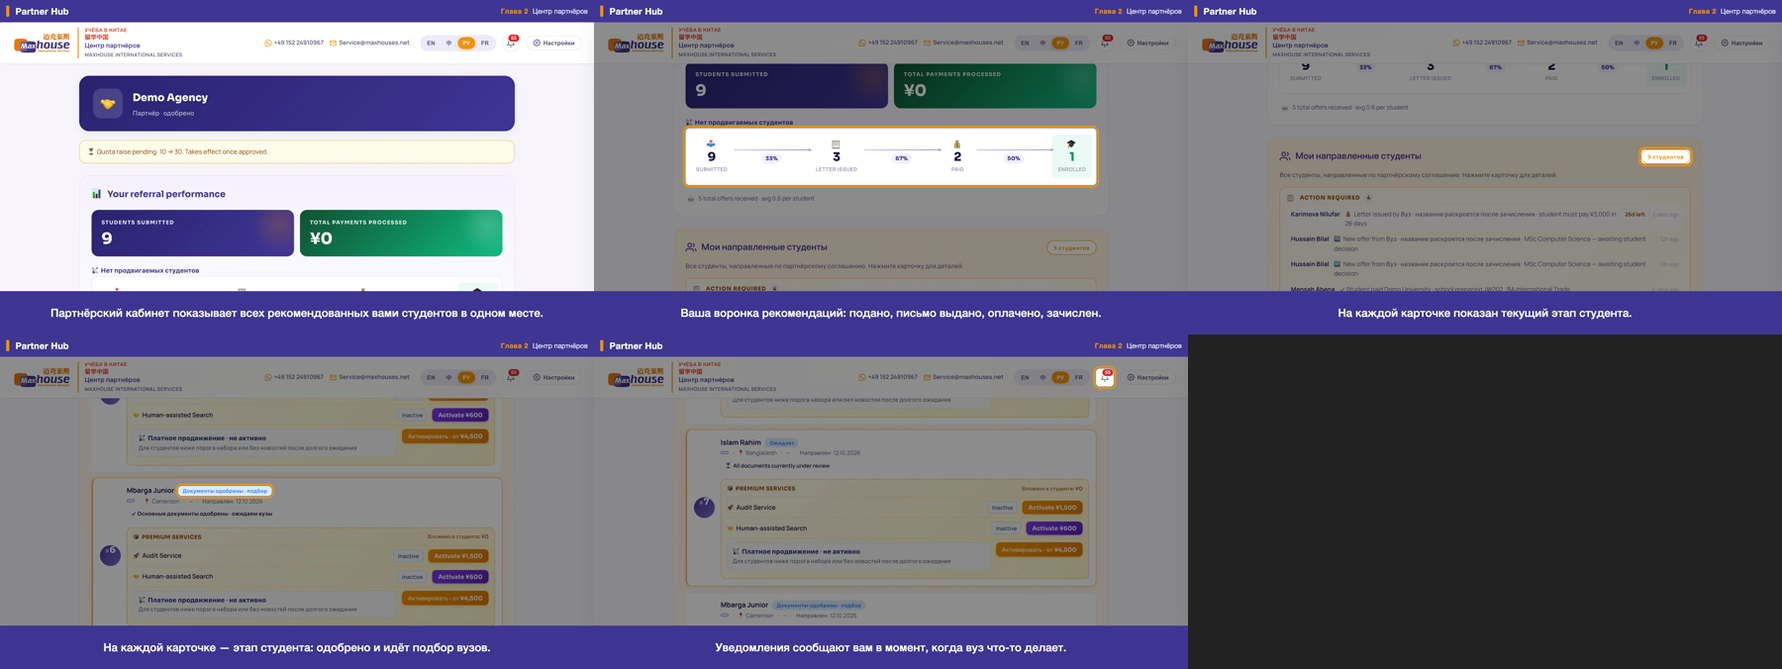
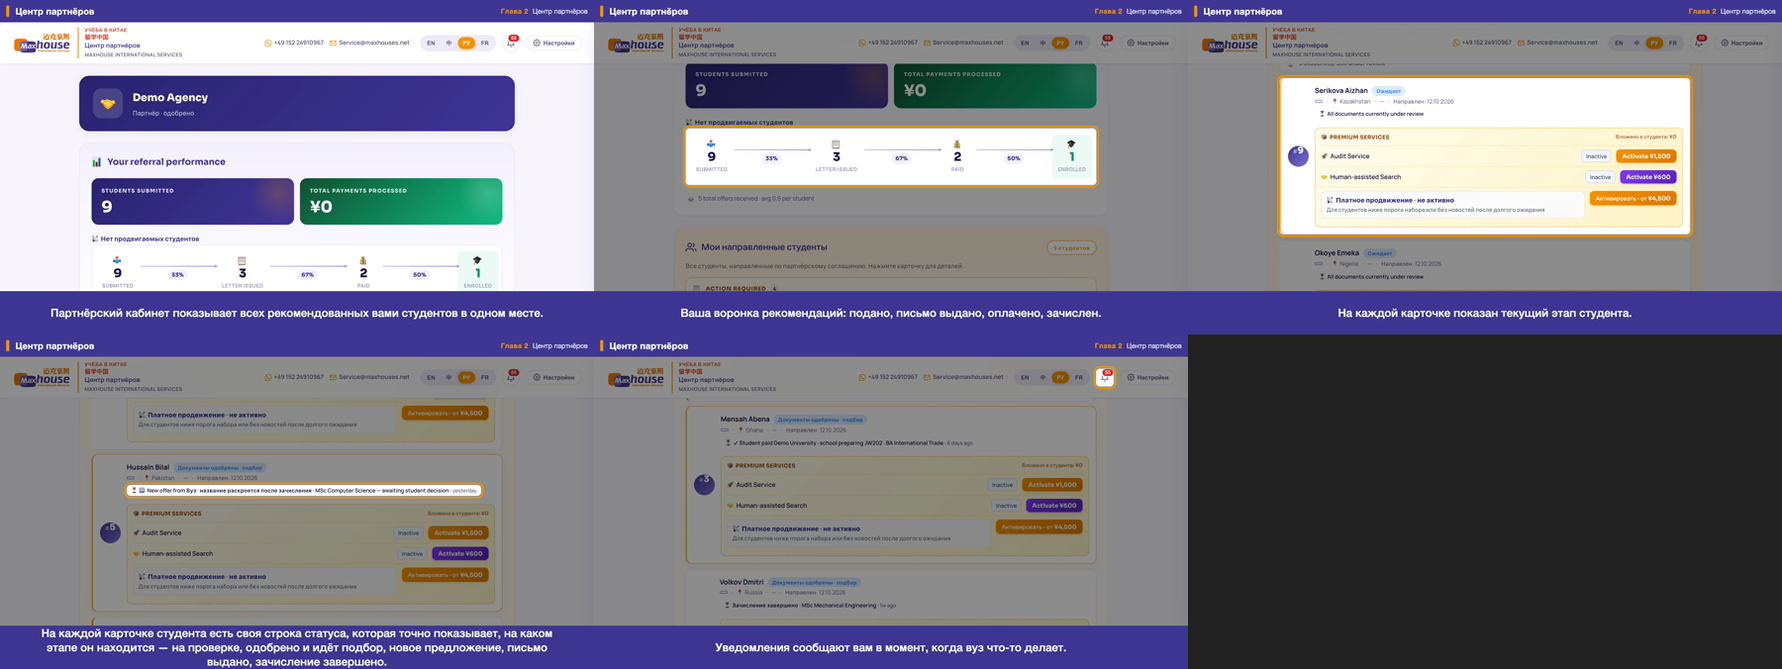
JOB-GP1 第三轮返工trip38: ch2 §三.1 重做 — 2-3 框首张学生卡整卡 + 2-4 多段框 5 张不同真实阶段状态行 + §三.7 去提额横幅 + §三.9 俄法章节条标签。四语横竖 v185 重录, 开工+收工 verify 17/17 PASS。联络表: ch2 contact + 2-4 segments 四语横竖。REVIEW-shots 追加第三轮节、旧 2-3/2-4 行标取代。GP-1 第三轮未收官, 下趟 ch1。

diff --git a/JOB-GP1-03-PROGRESS.md b/JOB-GP1-03-PROGRESS.md
@@ -1,4 +1,17 @@
-最后一趟：2026-10-13 第37趟 返工：**做了＝四语过 review1 §六十一项重审 → GP-1 返工收官**。全部工作台章(ch1/2/3/5/7/8/9/10 v185 定版)+ ch6 §二去揭晓(trip21)+ ch4 原版 + 开场快剪 OP-2..5 + 四语全片/速览(trip36 重拼)齐备。本趟纯复审+文书、**零 DB 写入**，开工+收工 verify **17/17 PASS 0 FAIL**。十一项四语各自全过：写 REVIEW-en-self.md(九项升十一项 v2)+ 新建 REVIEW-{zh,ru,fr}-self.md；四张 shots 逐镜对账表 **0 条「否」**。当场新验：①禁用词＋真名校名＋beta/test 对 captions 全 **57 镜×4 语** 扫描 **0 命中**；②8 个片尾成片 ED-{land,port}-{en,zh,ru,fr} 抽实帧 jsQR **真帧解码**全＝`…/partner-portal/?src=video-<语言>` 逐字对；③ffprobe 实测四语 full/trailer/OP/ED 时长与 trip36 记录逐项一致、segments 全语齐。四语新时长：全片 land/port EN426.6/424.7·ZH441.1/440.3·RU449.9/449.6·FR440.3/439.8s；速览 EN164.3/162.8·ZH168.4/167.6·RU172.3/172.2·FR165.8/165.5s。十一项四语全过→照 RULING-20261012c-rework 第4条重写 `~/mh-jobs/SUMMARY-GP1.md`(首行 **PUSH_OK=yes**，大白话：返工改了什么/review1 每条怎么处理/6 条产品问题留业主/四语新时长/v1 与 v2 区别/GP-2 建议包)。主仓库点名提交 JOB-GP1(4 self-review+DECISIONS D-37-1)不推；4 self-review+SUMMARY+决定账+PROGRESS 推 mh-jobs。**GP-1 四语横竖返工全部收官，循环自停。不开始 GP-2：不传 R2、不动 Cloudflare、不推主仓库。**
+最后一趟：2026-10-13 第38趟 第三轮返工（RULING-20261013b-video-only）：**做了＝第〇节放回代码核验（partner-portal 与线上一致·无 v186·diff 空）+ ch2 §三.1 重做**。2-3 高亮改框第一张学生卡整卡（原框计数药丸）；2-4 改为依次框 5 张不同真实阶段的卡状态行（nth1/4/5/6/8＝审核中/已通过匹配/新offer/已发通知书/录取完成·rec.mjs 新增 hlseq 多段高亮）+四语字幕重写重配音；§三.7 录前 st-ch8-quota-off/录后 restore 去掉工作台顶部提额横幅；§三.9 俄法章节条左标签改 Центр партнёров/Espace partenaires。四语横竖 8 片 v185 重录+重拼，开工+收工 verify 均 **17/17 PASS 0 FAIL**。亲眼逐帧复验 EN seg1-5/2-1/2-3+ZH seg3+RU/FR seg5：环框正确、无提额横幅、¥0 无负数、各 ¥ 正数、无 beta/test、双盲守住、no @gmail。第二版成片留底 _v2/、dist 覆盖第三轮版。**下趟＝ch1（§三.10 十章全部重录：四语横竖 v185 定版重录+§三.7 去横幅+§三.9 俄法章节条；ch1 字幕无缺陷纯重录）**。GP-1 第三轮返工未收官。
+> 【存档·第二版收官单结论，已被第三轮返工重开】最后一趟：2026-10-13 第37趟 返工：**做了＝四语过 review1 §六十一项重审 → GP-1 返工收官**。全部工作台章(ch1/2/3/5/7/8/9/10 v185 定版)+ ch6 §二去揭晓(trip21)+ ch4 原版 + 开场快剪 OP-2..5 + 四语全片/速览(trip36 重拼)齐备。本趟纯复审+文书、**零 DB 写入**，开工+收工 verify **17/17 PASS 0 FAIL**。十一项四语各自全过：写 REVIEW-en-self.md(九项升十一项 v2)+ 新建 REVIEW-{zh,ru,fr}-self.md；四张 shots 逐镜对账表 **0 条「否」**。当场新验：①禁用词＋真名校名＋beta/test 对 captions 全 **57 镜×4 语** 扫描 **0 命中**；②8 个片尾成片 ED-{land,port}-{en,zh,ru,fr} 抽实帧 jsQR **真帧解码**全＝`…/partner-portal/?src=video-<语言>` 逐字对；③ffprobe 实测四语 full/trailer/OP/ED 时长与 trip36 记录逐项一致、segments 全语齐。四语新时长：全片 land/port EN426.6/424.7·ZH441.1/440.3·RU449.9/449.6·FR440.3/439.8s；速览 EN164.3/162.8·ZH168.4/167.6·RU172.3/172.2·FR165.8/165.5s。十一项四语全过→照 RULING-20261012c-rework 第4条重写 `~/mh-jobs/SUMMARY-GP1.md`(首行 **PUSH_OK=yes**，大白话：返工改了什么/review1 每条怎么处理/6 条产品问题留业主/四语新时长/v1 与 v2 区别/GP-2 建议包)。主仓库点名提交 JOB-GP1(4 self-review+DECISIONS D-37-1)不推；4 self-review+SUMMARY+决定账+PROGRESS 推 mh-jobs。**GP-1 四语横竖返工全部收官，循环自停。不开始 GP-2：不传 R2、不动 Cloudflare、不推主仓库。**
+
+# 第 38 趟（2026-10-13 Mac mini 无人值守）· 第三轮返工开工 + ch2 §三.1 重做（RULING-20261013b-video-only）
+- **背景**：第二版(trip37)曾判收官；业主 2026-10-13 19:04 改判「不改中介端任何代码、只完成操作视频并上线」→ RULING-20261013b-video-only 开第三轮返工（RULING-20261013a-review2 作废、v186 取消）。SUMMARY-GP1-v2-*.md 系业主改名的第二版收官单，不动。
+- **第〇节（放回代码）**：partner-portal 无 v186、`git diff origin/main --stat -- partner-portal` 空、无未跟踪文件 → 第二轮从未动 v186，无需还原。本轮不改五端口任何代码。（以后每趟复核此两项。）
+- **本趟＝ch2（§五 顺序先 ch2）**：按 §三.1 重做 2-3/2-4 + §三.7 去提额横幅 + §三.9 俄法章节条左标签。
+  - **2-3**：高亮由计数药丸改框第一张学生卡整卡（Serikova Aizhan），字幕不改。
+  - **2-4**：依次框 5 张不同真实阶段的卡状态行 `.partner-student-issue`（nth 1/4/5/6/8＝审核中/已通过匹配/新offer Bilal/已发通知书 Karimova/录取完成 Volkov；rec.mjs 新增 hlseq 多段高亮，每段 hold1.3s、环不熄仅移动，逐段占其时段~76%≥70%）。字幕四语重写（不加引号避 §四.4）+重配音。实证探针 _probe-ch2-issue/_probe-ch2-nth；8 片 timeline seq 全 YYYYY。
+  - **§三.7**：录前 st-ch8-quota-off（quota_requests 单列 pending→approved）、录后 st-ch8-quota-restore。2-1 整屏已无「Quota raise pending」横幅。
+  - **§三.9**：gp1-overlays.mjs 俄 hub→Центр партнёров、法 hub→Espace partenaires（＝v185 页头名，亲帧实证），只重烧章节条、重拼 ru/fr ch2。
+- **验收**：开工+收工 verify 均 **17/17 PASS 0 FAIL**（scoped 置态/复位）。四语横竖 8 片 res OK+audio yes，录制全 no @gmail。亲眼逐帧：EN seg1-5（环框正确状态行·¥3,000 正数）+2-1（无横幅·¥0 无负数）+2-3（整框首卡）；ZH seg3（发来新 offer·章节条本地化）；RU seg5（录取完成·章节条已改 Центр партнёров）；FR seg5（admission terminée·章节条已改 Espace partenaires）。无 beta/test、双盲守住、演示机构无真 PII、页头平台联系方式不遮（D-14-3/D-15-1）。俄法状态行内英文回退片段＝产品 i18n 回退（D-18-4 照录不补）。
+- **账目**：主仓库点名提交 JOB-GP1（shots-v1.json/captions-v1.json/rec.mjs/gp1-overlays.mjs/4 REVIEW-shots/DECISIONS+探针），**未推**（本轮红线）。第二版 ch2 成片留底 `guide/dist/partner/_v2/`，dist 覆盖第三轮版（不入 git）。四语 ch2 联络表(contact+2-4 segments)+4 REVIEW-shots+决定账+PROGRESS 推 mh-jobs。
+- **下趟**：ch1（§三.10 十章全部重录：四语横竖 v185 定版重录+§三.7 去横幅+§三.9 俄法章节条；ch1 字幕无缺陷，纯定版重录+横幅/章节条处理）。**GP-1 第三轮返工未收官**，后续 ch3→ch10（含 §三.2/§三.3/§三.4/§三.5/§三.6/§三.8）→OP 重做→重拼→十一项重审→才写 SUMMARY-GP1。
 
 # 第 37 趟（2026-10-13 Mac mini 无人值守）· 四语过 review1 §六十一项重审 → GP-1 返工收官
 - **接手核对**：git status + 读齐 PROGRESS/loop-tail(20261012-163805·辨明 16:00「2 分钟即停」＝误判收官非真收官)/RULING-b-review1(§六十一项)/-c-rework(第4条收官)/-gp1(§三前九项+§二停下四情形)/-d/-e/DECISIONS/QUEUE/storyboard。trip36 已全部返工+重拼→本趟＝十一项重审+写 SUMMARY。首行开工即改「返工进行中」，开工 verify **17/17 PASS**。

diff --git a/JOB-GP1-decisions.md b/JOB-GP1-decisions.md
@@ -661,3 +661,20 @@
 - **非四种停下情形**：全在只读复审+文书范围，不碰端口码/不越 §0.3·0.4/不碰 R2·CF·主仓库推送。
 - **改了**（主仓库，点名 JOB-GP1，不推）：`REVIEW-en-self.md`(九项→十一项 v2)、`REVIEW-{zh,ru,fr}-self.md`(新建十一项)、`DECISIONS.md`。无成片改动(trip36 已定版)、无 shots/captions 改动、零 DB。四语 4 self-review + SUMMARY-GP1 + 决定账 + PROGRESS 推 mh-jobs。
 - **下趟**：无。GP-1 四语横竖返工全部完成、十一项四语全过、SUMMARY-GP1 PUSH_OK=yes 已出→循环自停。**不开始 GP-2：不传 R2、不动 Cloudflare、不推主仓库**(留业主另行授权上线)。
+
+## D-38-1 (2026-10-13 第38趟 · 第三轮返工开工 + ch2 §三.1 重做 · RULING-20261013b-video-only)
+- **接手核对**：git status（主仓库半成品皆别线/工装残留，本线不碰）+ 读齐 PROGRESS/loop-tail(20261013-192852)/RULING-20261013b-video-only(本轮总纲)/-gp1(§二停下四情形)/-c-rework/-b-review1/-d/-e/DECISIONS/QUEUE/storyboard。辨明：第二版(trip37)曾判「收官」，业主 10-13 19:04 改判「不改中介端代码、只做视频上线」→开第三轮返工重开。首行开工即改「第三轮返工进行中」，开工 verify **17/17 PASS 0 FAIL**。
+- **第〇节（放回代码）核验**：partner-portal 无任何 v186 文件、`git diff origin/main --stat -- partner-portal` 为空、partner-portal 下无未跟踪文件。第二轮从未动过 v186→无需还原，本轮不改五端口任何代码（本决定项即第〇节 2 条检查的当趟记录，以后每趟复核）。
+- **本趟选题（§五 顺序：ch2 先）**：ch2 §三.1（2-3/2-4 返工）+ §三.7（去提额横幅，ch2 露工作台顶部）+ §三.9（俄法章节条左标签，随本章重烧）。
+- **§三.1 实现（只改成片/录制工装，零改产品码/迁移/共用组件）**：
+  - **2-3**：hl 由 `.partner-students-count`（计数药丸）改为 `.partner-students-list .partner-student-card:nth-of-type(1)`（第一张学生卡整卡 Serikova Aizhan）。字幕不改。
+  - **2-4**：shots-v1.json 去掉旧单点 hl/hl_zh/hl_ru/hl_fr，新增 `hlseq`＝5 个 `…card:nth-of-type(N) .partner-student-issue`（N=1/4/5/6/8）。实证 `_probe-ch2-issue.mjs`/`_probe-ch2-nth.mjs`：9 张卡状态行真实分档（审核中×3 / 已通过匹配×2 / 新offer Bilal / 已发通知书 Karimova / 已付款 Mensah / 录取完成 Volkov），选 5 张覆盖「审核中→已通过匹配→新offer→已发通知书→录取完成」的旅程弧。
+  - **rec.mjs** follow() 新增 `hlseq` 分支：依次 hlOn(每段)，环不熄仅 rAF 移动+hlOn 内 scrollToSel 滚到视口，每段 hold `perSeg=1300ms`；逐段 box 记入 timeline.shots.seq。8 片 seq 全 `YYYYY`(5/5 resolved)。per-seg 环居中占其时段 ~76%≥70%(§四.2)。
+  - **字幕**：四语重写(不加引号避 §四.4 逐字比对)＋重配音(tts-gp1 --force-ids 2-4)。EN「Each student card carries its own status line, …— under review, approved and matching, a new offer, a letter issued, admission complete.」ZH/RU/FR 对应全译(captions-v1.json)＋ shots-v1.json capEN/capZH 同步(字幕=配音同源)。配音 en10.9/zh14.0/ru13.8/fr11.3s，2-4 窗 13.8s，静默尾≤2.9s(§四≤3s)。
+- **§三.7（去提额横幅）**：录前 `st-ch8-quota-off.sql`(quota_requests 单列 pending→approved、decided_at 仍 NULL→产品 `_qrApplyBanner` 清横幅)、录后 `st-ch8-quota-restore.sql` 还原 pending。亲验 2-1 整屏工作台顶部已无「Quota raise pending 10→30」横幅。收工 verify #13 回 pending、17/17 PASS。
+- **§三.9（俄法章节条左标签）·我的决定**：`gp1-overlays.mjs` BAR_I18N.ru.hub `Partner Hub`→`Центр партнёров`、fr.hub→`Espace partenaires`(＝v185 该语言页头实际显示名，亲帧实证)。只重烧章节条→重拼 ru/fr ch2 land+port。zh.hub(`合作伙伴端`)/en 不在 §三.9 范围、不动。本条同改 RULING-20261012c-rework 第3条。
+- **自验（亲眼逐帧，铁律15）**：EN land 2-4 seg1/2/3/4/5 全帧(环框正确状态行)+2-1(无提额横幅·¥0 无负数)+2-3(整框第一张卡)；ZH land seg3(发来新 offer·章节条第2章·页头本地化)；RU land seg5(录取完成·**章节条已改 Центр партнёров**)；FR land seg5(admission terminée·**章节条已改 Espace partenaires**)。全程无 beta/placeholder/test、¥3,000 等金额皆正数、¥0 无负数、双盲守住(A university/某院校·录取后公布校名)、演示机构无真 PII、录制全 no @gmail、页头平台 WhatsApp/Email 不遮(D-14-3/D-15-1)。俄法状态行内英文回退片段(New offer from / Letter issued by / student must pay ¥3,000 / awaiting student decision / yesterday)＝产品 i18n 回退，D-18-4 照录不补。
+- **DB**：开工+收工 verify 均 **17/17 PASS 0 FAIL**，baseline 守住(scoped 置态/复位，无全量 rebuild，D-12-2)。写入/删除仅 §0.3/§0.4 范围(quota_requests 单列可逆)。
+- **非四种停下情形**：全在成片/录制工装+§0.3 范围，不碰端口码/不越界/不碰 R2·CF·主仓库推送。
+- **改了**（主仓库，点名 JOB-GP1，不推）：`rec/shots-v1.json`(2-3 hl/2-4 hlseq+capEN/capZH)、`captions-v1.json`(2-4 四语)、`rec/rec.mjs`(hlseq 分支)、`rec/gp1-overlays.mjs`(ru/fr hub 标签)、`rec/tts-gp1.mjs` 未改(复用 --force-ids)、`REVIEW-{en,zh,ru,fr}-shots.md`(追加 ch2 §三.1 第三轮节、旧 2-3/2-4 行标取代)、`DECISIONS.md`、新增探针 `rec/_probe-ch2-issue.mjs`/`_probe-ch2-nth.mjs`/`rec/_seg-strip-24.mjs`。成片/voice 不入 git；ch2 第二版成片已留底 `guide/dist/partner/_v2/`，dist 覆盖为第三轮版。四语 ch2 联络表(contact land/port + 2-4 segments land/port)+4 REVIEW-shots+决定账+PROGRESS 推 mh-jobs。
+- **下趟**（§五 顺序）：ch1（§一 1-8 负数已在 trip29 v185 修；但第三轮 §三.10 要求十章全部重录不沿用旧录像，故 ch1 四语横竖按 v185 重录，§三.7 去提额横幅、§三.9 俄法章节条；ch1 字幕 review1/本轮未标缺陷，纯定版重录+章节条/横幅处理）。**GP-1 第三轮返工未收官**，后续 ch3→ch10（含 §三.2 ch5-1/§三.3 ch3-3/§三.4 ch3-9/§三.5+§三.6 ch7/§三.8 俄法引用按钮名）逐章做，再 OP 重做+重拼+十一项重审→才重写 SUMMARY-GP1。

diff --git a/JOB-GP1-REVIEW-en-shots.md b/JOB-GP1-REVIEW-en-shots.md
@@ -70,6 +70,29 @@ trip23 的字幕/高亮（§三.6）照旧正确，本趟只换**录制底座 v1
 - 时长：land 27.66s / port 27.66s。8 片（四语横竖）全 res OK + audio yes。全片 DOM 扫描 **no @gmail**。
 - 逐张亲眼复验（EN land 联络表 + 2-2/2-4 原始帧）：2-2 漏斗 9/3/2/1 无负数无全 0；2-4 框住「Documents approved · matching」真标签；页头平台 WhatsApp/Email 不遮（D-14-3/D-15-1）；¥0 TOTAL PAYMENTS PROCESSED 保留（§一.3）；演示生 Mbarga Junior / Islam Rahim 无真 PII；无 beta/内测/test 控件。
 - **记入 SUMMARY「留给业主的产品问题」**：①中介端工作台无「名额已用/剩余」显示（故 2-2 改述漏斗）；②卡状态徽章颜色恒 pending 蓝（`students.stage` 列恒 NULL），即便标签已是「材料已通过·匹配中」（gate_open 覆盖），色与标签语义不一致——属产品层 stage 列未回填的历史问题，非本片可改。
+- ⚠ 上表 2-3 / 2-4 两行**已被第 38 趟（第三轮返工 RULING-20261013b §三.1）取代**——见下节。
+
+## ch2 §三.1（第三轮返工 · RULING-20261013b，第38趟 2026-10-13 · v185 定版重录）
+RULING-20261013b §三.1 复核第二版查出：**2-3** 原来框的是 `.partner-students-count`「9 students」**计数药丸**，不是卡片；**2-4** 原来只框一张卡的徽章文字，没做到 review1 §三.2 首选的「依次框各张卡」，而每张卡的**状态行 `.partner-student-issue`** 其实真实显示不同阶段。本趟按 §三.1 重做（四语横竖全部用 v185 重录；另按 §三.7 录前 `st-ch8-quota-off`、录后 `st-ch8-quota-restore` 去掉工作台顶部「Quota raise pending」横幅，收工 verify 17/17 回基线）：
+- **2-3**：高亮改框列表**第一张学生卡整卡**（`.partner-students-list .partner-student-card:nth-of-type(1)`＝Serikova Aizhan），字幕不改。
+- **2-4**：改为**依次框 5 张处在不同真实阶段的卡的状态行**（`.partner-student-card:nth-of-type(N) .partner-student-issue`，N=1/4/5/6/8；录制层 rec.mjs 新增 `hlseq` 多段高亮，每段 hold 1.3s、环不熄仅移动，逐段占其时段 ~76% ≥70%）。字幕按屏上依次出现的阶段、用产品说法写、**不加引号**（避 §四.4 逐字比对），四语重配音。不框徽章。
+- 实证底座 `_probe-ch2-nth.mjs`：四语 land 下 5 个 nth 状态行均 resolve+可见；8 片 timeline 2-4 `seq` 全 `YYYYY`（5/5 resolved）。
+
+| 镜 | 字幕原文（新/未改） | 高亮区 DOM 实际文字（从最终成片实帧亲验） | 同一件事？ |
+|----|----------|---------------------|-----------|
+| 2-3 | Each card carries the student's current stage.（未改） | 整框第一张学生卡 Serikova Aizhan（含姓名/徽章「Submitted · awaiting platform review」/状态行/增值服务区） | 是（框的是卡片本身，不再是计数药丸） |
+| 2-4 seg1 | （同下整句）under review … | nth1 Serikova Aizhan 状态行「⏳ All documents currently under review」 | 是 |
+| 2-4 seg2 | … approved and matching … | nth4 Mbarga Junior 状态行「✓ Core documents approved · awaiting school matches」 | 是 |
+| 2-4 seg3 | … a new offer … | nth5 Hussain Bilal 状态行「🆕 New offer from A university · name revealed after admission · MSc Computer Science — awaiting student decision · yesterday」 | 是（双盲守住：A university·录取后公布校名） |
+| 2-4 seg4 | … a letter issued … | nth6 Karimova Nilufar 状态行「💰 Letter issued by A university · … · student must pay **¥3,000** in 30 days · 30d left」（¥3,000 为**正数**） | 是 |
+| 2-4 seg5 | … admission complete. | nth8 Volkov Dmitri 状态行「Admission complete · MSc Mechanical Engineering · 1w ago」 | 是 |
+
+2-4 整句字幕（EN）：*Each student card carries its own status line, showing exactly where that student stands — under review, approved and matching, a new offer, a letter issued, admission complete.*
+
+- 时长（最终成片，秒）：land en 35.8 / zh 38.0 / ru 37.2 / fr 36.0；port 同量级。2-4 窗 13.8s（5 段），配音 en 10.9/zh 14.0/ru 13.8/fr 11.3s，静默尾≤2.9s（§四 容许≤3s）。8 片全 res OK + audio yes，录制全 **no @gmail**。
+- 亲眼逐帧复验（EN land seg1/2/3/4/5 + 2-1 + 2-3 全帧；ZH land seg3 全帧）：环框在正确状态行；**2-1 工作台顶部已无「Quota raise pending」横幅**（§三.7 去横幅生效），TOTAL PAYMENTS PROCESSED **¥0** 无负数；增值服务 ¥1,500/¥600/¥4,500、letter ¥3,000 均正数；双盲守住（A university / 某院校·录取后公布校名）；页头平台 WhatsApp/Email（Service@maxhouses.net）不遮（D-14-3/D-15-1）；演示机构 Demo Agency 无真 PII；**无 beta/placeholder/test/负数**。
+- RU/FR 的 2-4 状态行里「New offer from / Letter issued by / student must pay ¥3,000 in 30 days / awaiting student decision / yesterday」等片段为产品 i18n 英文回退（D-18-4：俄法界面英文回退照录不补），非本片引入。字幕本身为对应语言全译（captions-v1.json）。
+- 联络表（本节证据）：`~/mh-jobs/shots/GP1/<lang>/ch2-contact-{land,port}-<lang>.png`（逐镜中点）+ `ch2-2-4-segments-{land,port}-<lang>.png`（2-4 五段逐段）。
 
 ## ch1 §一（1-8 工作台负数金额，返工第29趟 2026-10-12 · v185 定版重录）
 前置：ch1 第 1～7 镜＝注册/入驻 UI（产品自身 gateShowRegister/renderPendingView 渲染，client-side 驱动、零写库），review1 未标 ch1 任何字幕缺陷；唯 1-8「切到 guide_partner：APPROVED 徽章 + 工作台」背景里有 review1 §一 点名的工作台数字问题——v184 缓存帧的 hero 显 `TOTAL PAYMENTS PROCESSED ¥-9,000`（负数，缺陷1）。本趟在 v185 底座（含 trip28 offCamera 等待）对 ch1 整章四语横竖定版重录，1-8 背景自动显修好后的 `¥0`。字幕一字未改。

diff --git a/JOB-GP1-REVIEW-ru-shots.md b/JOB-GP1-REVIEW-ru-shots.md
@@ -44,6 +44,24 @@ trip23 字幕/高亮照旧正确，本趟只换录制底座 v184→v185 重录 c
 
 - 时长：land 28.23s / port 28.19s。全片 no @gmail。亲眼复验（RU land 联络表）：漏斗 9/3/2/1 无负数全 0、2-4 框「Документы одобрены · подбор」、¥0 保留、演示生无真 PII、无 beta 控件；部分界面串英文回退（D-18-4）。
 
+## ch2 §三.1（第三轮返工 · RULING-20261013b，第38趟 2026-10-13 · v185 定版重录）
+⚠ 上表 2-3 / 2-4 两行**已被本节取代**。同 §三.1 重做（四语横竖 v185 重录；§三.7 去「提额待审」横幅，收工 verify 17/17；§三.9 章节条左标签改产品页头名）：
+- **2-3**：改框列表**第一张学生卡整卡**（Serikova Aizhan），字幕不改。
+- **2-4**：改为**依次框 5 张不同真实阶段的卡状态行**（nth 1/4/5/6/8；rec.mjs 新增 `hlseq`，每段 ~76%≥70%），字幕重写并重配音：**«На каждой карточке студента есть своя строка статуса, которая точно показывает, на каком этапе он находится — на проверке, одобрено и идёт подбор, новое предложение, письмо выдано, зачисление завершено.»**
+- **§三.9**：章节条左标签 `Partner Hub`→**«Центр партнёров»**（＝v185 俄文页头名；gp1-overlays.mjs BAR_I18N.ru.hub），只重烧章节条、重拼本章。
+
+| 镜 | 高亮区 DOM 实际文字（最终成片实帧亲验） | 同一件事？ |
+|----|---------------------|-----------|
+| 2-3 | 整框第一张学生卡 Serikova Aizhan（徽章「Ожидает」） | 是 |
+| 2-4 seg1 | nth1「⏳ All documents currently under review」(产品英文回退) | 是 |
+| 2-4 seg2 | nth4「✓ Основные документы одобрены · ожидаем вузы」 | 是 |
+| 2-4 seg3 | nth5「🆕 New offer from Вуз · название раскроется после зачисления · MSc Computer Science — awaiting student decision · yesterday」 | 是（双盲守住） |
+| 2-4 seg4 | nth6「💰 Letter issued by Вуз · … · student must pay **¥3,000** in 30 days」（正数） | 是 |
+| 2-4 seg5 | nth8「Зачисление завершено · MSc Mechanical Engineering · 1w ago」 | 是 |
+
+- 时长（成片）：land ru 37.2s。8 片 res OK + audio yes，录制全 no @gmail。2-4 窗 13.8s / 配音 ru 13.8s。
+- 亲眼复验（RU land seg5 全帧）：环框「Зачисление завершено」行、**章节条左标签已改「Центр партнёров」**（§三.9）、页头「Центр партнёров」本地化；¥0 无负数、各 ¥ 正数；无 beta/test；双盲守住；状态行内「New offer from / Letter issued by / student must pay ¥3,000 / awaiting student decision / yesterday」为产品英文回退（D-18-4，照录不补），字幕本身为俄文全译。联络表见 `~/mh-jobs/shots/GP1/ru/ch2-*.png`。
+
 ## ch1 §一（1-8 工作台负数金额，返工第29趟 2026-10-12 · v185 定版重录）
 前置：ch1 第 1～7 镜＝注册/入驻 UI（产品自身渲染、零写库），review1 未标 ch1 字幕缺陷；唯 1-8 背景 hero 有 review1 §一 的负数（v184 `TOTAL PAYMENTS PROCESSED ¥-9,000`）。本趟 v185 底座整章四语横竖定版重录，1-8 背景自动显 `¥0`。字幕一字未改。
 

diff --git a/JOB-GP1-REVIEW-fr-shots.md b/JOB-GP1-REVIEW-fr-shots.md
@@ -44,6 +44,24 @@ trip23 字幕/高亮照旧正确，本趟只换录制底座 v184→v185 重录 c
 
 - 时长：land 27.68s / port 27.62s。全片 no @gmail。亲眼复验（FR land 联络表）：漏斗 9/3/2/1 无负数全 0、2-4 框「Documents validés · mise en relation」、¥0 保留、演示生无真 PII、无 beta 控件；部分界面串英文回退（D-18-4）。
 
+## ch2 §三.1（第三轮返工 · RULING-20261013b，第38趟 2026-10-13 · v185 定版重录）
+⚠ 上表 2-3 / 2-4 两行**已被本节取代**。同 §三.1 重做（四语横竖 v185 重录；§三.7 去「提额待审」横幅，收工 verify 17/17；§三.9 章节条左标签改产品页头名）：
+- **2-3**：改框列表**第一张学生卡整卡**（Serikova Aizhan），字幕不改。
+- **2-4**：改为**依次框 5 张不同真实阶段的卡状态行**（nth 1/4/5/6/8；rec.mjs 新增 `hlseq`，每段 ~76%≥70%），字幕重写并重配音：**«Chaque fiche étudiant possède sa propre ligne de statut, indiquant précisément où en est l'étudiant — en cours d'examen, validé et en appariement, une nouvelle offre, une lettre émise, admission terminée.»**
+- **§三.9**：章节条左标签 `Partner Hub`→**«Espace partenaires»**（＝v185 法文页头名；gp1-overlays.mjs BAR_I18N.fr.hub），只重烧章节条、重拼本章。
+
+| 镜 | 高亮区 DOM 实际文字（最终成片实帧亲验） | 同一件事？ |
+|----|---------------------|-----------|
+| 2-3 | 整框第一张学生卡 Serikova Aizhan（徽章「En attente」） | 是 |
+| 2-4 seg1 | nth1「⏳ All documents currently under review」(产品英文回退) | 是 |
+| 2-4 seg2 | nth4「✓ Documents clés validés · en attente d'écoles」 | 是 |
+| 2-4 seg3 | nth5「🆕 New offer from Un établissement · nom communiqué après admission · MSc Computer Science — awaiting student decision · yesterday」 | 是（双盲守住） |
+| 2-4 seg4 | nth6「💰 Letter issued by Un établissement · … · student must pay **¥3,000** in 30 days」（正数） | 是 |
+| 2-4 seg5 | nth8「Admission terminée · MSc Mechanical Engineering · 1w ago」 | 是 |
+
+- 时长（成片）：land fr 36.0s。8 片 res OK + audio yes，录制全 no @gmail。2-4 窗 13.8s / 配音 fr 11.3s（静默尾≤3s）。
+- 亲眼复验（FR land seg5 全帧）：环框「Admission terminée」行、**章节条左标签已改「Espace partenaires」**（§三.9）、页头「Espace partenaires」本地化；¥0 无负数、各 ¥ 正数；无 beta/test；双盲守住；状态行内「New offer from / Letter issued by / student must pay ¥3,000 / awaiting student decision / yesterday」为产品英文回退（D-18-4，照录不补），字幕本身为法文全译。联络表见 `~/mh-jobs/shots/GP1/fr/ch2-*.png`。
+
 ## ch1 §一（1-8 工作台负数金额，返工第29趟 2026-10-12 · v185 定版重录）
 前置：ch1 第 1～7 镜＝注册/入驻 UI（产品自身渲染、零写库），review1 未标 ch1 字幕缺陷；唯 1-8 背景 hero 有 review1 §一 的负数（v184 `TOTAL PAYMENTS PROCESSED ¥-9,000`）。本趟 v185 底座整章四语横竖定版重录，1-8 背景自动显 `¥0`。字幕一字未改。
 

diff --git a/JOB-GP1-REVIEW-zh-shots.md b/JOB-GP1-REVIEW-zh-shots.md
@@ -53,6 +53,23 @@ trip23 字幕/高亮照旧正确，本趟只换录制底座 v184→v185 重录 c
 
 - 时长：land 29.34s / port 29.35s。中文字幕无乱码方块。全片 no @gmail。亲眼复验（ZH land 联络表）：漏斗 9/3/2/1 无负数全 0、2-4 框「材料已通过·匹配中」、¥0 TOTAL PAYMENTS PROCESSED 保留、演示生无真 PII、无 beta 控件。
 
+## ch2 §三.1（第三轮返工 · RULING-20261013b，第38趟 2026-10-13 · v185 定版重录）
+⚠ 上表 2-3 / 2-4 两行**已被本节取代**。RULING-20261013b §三.1 复核第二版查出：2-3 框的是「9 students」计数药丸非卡片；2-4 只框一张卡徽章、没依次框各张卡状态行。本趟重做（四语横竖 v185 重录；§三.7 录前 `st-ch8-quota-off`/录后 `st-ch8-quota-restore` 去掉「提额待审」横幅，收工 verify 17/17）：
+- **2-3**：改框列表**第一张学生卡整卡**（Serikova Aizhan），字幕不改「每张卡显示学生当前所处的阶段。」。
+- **2-4**：改为**依次框 5 张不同真实阶段的卡状态行**（`.partner-student-issue`，nth 1/4/5/6/8；rec.mjs 新增 `hlseq` 多段高亮，每段 hold 1.3s、环不熄仅移动，逐段占其时段 ~76%≥70%），字幕重写并重配音：**「每张学生卡都有自己的状态行，清楚显示该学生所处的阶段——审核中、材料已通过并匹配中、收到新 offer、已发录取通知书、录取完成。」**
+
+| 镜 | 高亮区 DOM 实际文字（从最终成片实帧亲验） | 同一件事？ |
+|----|---------------------|-----------|
+| 2-3 | 整框第一张学生卡 Serikova Aizhan（徽章「已提交 · 等待平台审核」） | 是 |
+| 2-4 seg1 | nth1 Serikova Aizhan「⏳ 所有材料正在审核中」 | 是 |
+| 2-4 seg2 | nth4 Mbarga Junior「✓ 核心材料已通过审核 · 等待学校匹配」 | 是 |
+| 2-4 seg3 | nth5 Hussain Bilal「🆕 某院校 · 录取后公布校名 发来新 offer · 录取专业 MSc Computer Science — 等待学生回应 · 昨天」 | 是（双盲守住） |
+| 2-4 seg4 | nth6 Karimova Nilufar「💰 某院校 · … 已发录取通知书 · 学生需在 30 天内付费 **¥3,000**」（正数） | 是 |
+| 2-4 seg5 | nth8 Volkov Dmitri「录取完成 · MSc Mechanical Engineering · 1 周前」 | 是 |
+
+- 时长（成片）：land zh 38.0s。8 片 res OK + audio yes，录制全 no @gmail。2-4 窗 13.8s / 配音 zh 14.0s。
+- 亲眼复验（ZH land seg3 全帧）：环框「发来新 offer」行、章节条「第 2 章 工作台」、页头「合作伙伴端/合作伙伴中心」本地化；¥0 无负数、¥1,500/¥600/¥4,500/¥3,000 正数；无 beta/内测/test；双盲守住。联络表见 `~/mh-jobs/shots/GP1/zh/ch2-contact-*.png`+`ch2-2-4-segments-*.png`。
+
 ## ch1 §一（1-8 工作台负数金额，返工第29趟 2026-10-12 · v185 定版重录）
 前置：ch1 第 1～7 镜＝注册/入驻 UI（产品自身渲染、零写库），review1 未标 ch1 字幕缺陷；唯 1-8 背景 hero 有 review1 §一 的负数金额（v184 缓存帧 `TOTAL PAYMENTS PROCESSED ¥-9,000`）。本趟 v185 底座整章四语横竖定版重录，1-8 背景自动显 `¥0`。字幕一字未改。
 
